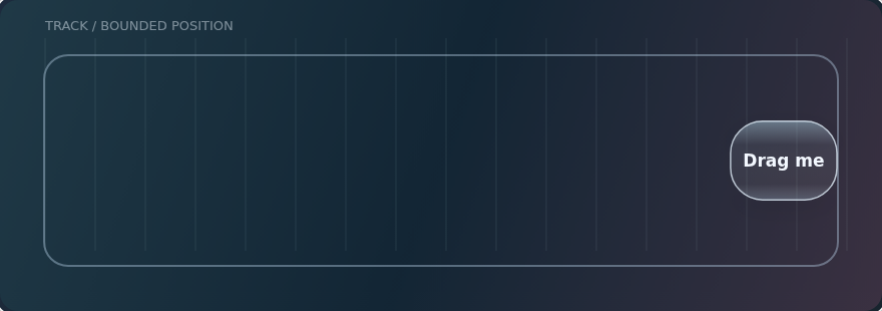
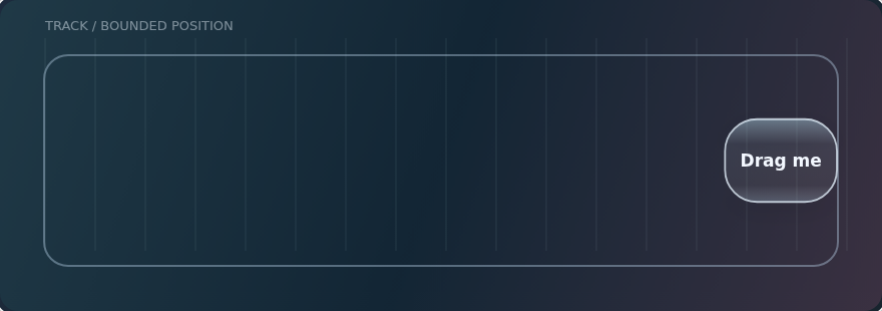
Refresh the glass specification and v0.21.0 app previews
Document the implemented motion/material contracts, update the interactive
lab and illustrations, and retain device profiling and selection entrance
motion as explicit review work. Replace README previews with the candidate
and prepare release notes covering all resolved issues.

Refs #110, #111, #112, #113, #114, #115, #116, #117, #118, #119

Changed region(s): [[0.7959, 0.3762, 0.949, 0.5788], [0.8265, 0.5788, 0.949, 0.6656]]

diff --git a/docs/lab.html b/docs/lab.html
@@ -12,16 +12,16 @@
 <p id="instructions"><small>Drag the lens, or focus the illustration and use Left/Right. Home/End move to a boundary. Buttons below provide the same actions. Keyboard steps settle with the same spring.</small></p>
 <div class="controls"><button id="left">Move left</button><button id="right">Move right</button><button id="menu" aria-pressed="false">Expand surface</button><button id="reset">Reset</button></div>
 <p><output id="readout" aria-live="off"></output></p>
-<div class="controls"><label>Shape damping <input id="damping" type="range" min="12" max="45" value="24"><output id="dampingValue">24</output></label><label><input id="reduce" type="checkbox"> Reduce motion</label></div>
+<div class="controls"><label>Shape damping <input id="damping" type="range" min="2" max="40" value="8"><output id="dampingValue">8</output></label><label>Resting depth <input id="depth" type="range" min="0.6" max="2" step="0.05" value="1.35"><output id="depthValue">1.35</output></label><label><input id="reduce" type="checkbox"> Reduce motion</label></div>
 </section>
-<details><summary>What this demonstrates</summary><p>A bounded center uses a critically damped spring after release. A second spring responds to velocity changes and edge pressure. Opposing exponential scales preserve projected area. Expansion changes the target geometry without queuing a separate flourish. This is a small Localica proposal, not Apple's code, a fluid-volume simulation, or a production glass shader. The drawing intentionally uses simple gradients so you can focus on behavior.</p><p>Read the <a href="specification.md#shape-carries-impact">model and its limitations</a> and the <a href="sources.md#interaction-foundations">Apple interaction evidence</a>. The current Android release is unchanged by this prototype.</p></details>
+<details><summary>What this demonstrates</summary><p>A bounded center uses a critically damped spring after release. A second spring responds to velocity changes and edge pressure. Coupled footprint and thickness scales preserve approximate cap volume. The contacting edge stays pinned during compression. Expansion changes the target geometry without queuing a separate flourish. This is a small Localica proposal, not Apple's code, a fluid-volume simulation, or a production glass shader. The drawing intentionally uses simple gradients so you can focus on behavior.</p><p>Read the <a href="specification.md#shape-carries-impact">model and its limitations</a> and the <a href="sources.md#interaction-foundations">Apple interaction evidence</a>. The current Android release is unchanged by this prototype.</p></details>
 <footer>Original illustration · no Apple imagery or font files · no dependencies or network requests</footer>
 <script>
 'use strict';
 const canvas=document.querySelector('#scene'),ctx=canvas.getContext('2d');
 const reduce=document.querySelector('#reduce');reduce.checked=matchMedia('(prefers-reduced-motion: reduce)').matches;
 const damping=document.querySelector('#damping'),readout=document.querySelector('#readout');
-let x=250,v=0,target=x,strain=0,sv=0,previousV=0,pressure=0,drag=null,expanded=false,w=126,h=66,wv=0,hv=0,last=0,frame=0;
+let x=250,v=0,target=x,strain=0,sv=0,depth=0,dv=0,previousV=0,pressure=0,drag=null,expanded=false,w=126,h=66,wv=0,hv=0,last=0,frame=0;
 const clamp=(a,lo,hi)=>Math.max(lo,Math.min(hi,a));
 function limits(){return [45+w/2,835-w/2]}
 function wake(){if(!frame){last=performance.now();frame=requestAnimationFrame(tick)}}
@@ -33,23 +33,24 @@ function draw(){
  ctx.strokeStyle='#cce7f51a';ctx.lineWidth=1;for(let i=45;i<850;i+=50){ctx.beginPath();ctx.moveTo(i,38);ctx.lineTo(i,250);ctx.stroke()}
  ctx.fillStyle='#edf6ff7a';ctx.font='13px system-ui';ctx.fillText('TRACK / BOUNDED POSITION',45,30);
  ctx.strokeStyle='#bdd8ed66';ctx.lineWidth=2;ctx.beginPath();ctx.roundRect(44,55,792,210,24);ctx.stroke();
- const q=reduce.checked?0:strain,sx=Math.exp(q),sy=Math.exp(-q),sw=w*sx,sh=h*sy;
+ const q=reduce.checked?0:strain,z=reduce.checked?0:.24*Math.tanh(depth/.24),sx=Math.exp(q-z/2),sy=Math.exp(-q-z/2),sz=Math.exp(z),sw=w*sx,sh=h*sy;
  // Keep the outer silhouette inside the track while it bulges.
  const [leftLimit,rightLimit]=limits();
  const cx=x>=rightLimit-.01?835-sw/2:x<=leftLimit+.01?45+sw/2:clamp(x,45+sw/2,835-sw/2),cy=160;
  ctx.save();ctx.translate(cx,cy);ctx.shadowColor='#00000055';ctx.shadowBlur=24;ctx.shadowOffsetY=8;
- const g=ctx.createLinearGradient(0,-sh/2,0,sh/2);g.addColorStop(0,'#c5eeff66');g.addColorStop(.3,'#daecff18');g.addColorStop(.8,'#ffffff12');g.addColorStop(1,'#cce8ff40');ctx.fillStyle=g;ctx.beginPath();ctx.roundRect(-sw/2,-sh/2,sw,sh,Math.min(32,sh/2));ctx.fill();ctx.shadowColor='transparent';ctx.strokeStyle='#e7f5ffc0';ctx.lineWidth=1.5;ctx.stroke();
+ const g=ctx.createLinearGradient(0,-sh/2,0,sh/2);g.addColorStop(0,'#c5eeff66');g.addColorStop(.3,'#daecff18');g.addColorStop(.8,'#ffffff12');g.addColorStop(1,'#cce8ff40');ctx.fillStyle=g;ctx.beginPath();ctx.roundRect(-sw/2,-sh/2,sw,sh,Math.min(32,sh/2));ctx.fill();ctx.shadowColor='transparent';ctx.strokeStyle='#e7f5ffc0';ctx.lineWidth=1.5*sz*Number(document.querySelector('#depth').value);ctx.stroke();
  ctx.fillStyle='#f3f8ff';ctx.textAlign='center';ctx.font='600 17px system-ui';ctx.fillText(expanded?'One continuing surface':'Drag me',0,expanded?-18:6);
  if(expanded){ctx.font='14px system-ui';ctx.fillStyle='#dce7f0';ctx.fillText('Same position, velocity and identity',0,17);ctx.fillText('Re-grab while settling',0,44)}ctx.restore();
  const [lo,hi]=limits();const pct=Math.round((x-lo)/(hi-lo)*100);canvas.setAttribute('aria-valuenow',String(clamp(pct,0,100)));
- readout.value=`velocity ${v.toFixed(0)} px/s · strain ${strain.toFixed(3)} · area ratio ${(sx*sy).toFixed(3)}${drag?' · tracking':' · settling / rest'}`;
+ readout.value=`velocity ${v.toFixed(0)} px/s · strain ${strain.toFixed(3)} · depth ${sz.toFixed(3)} · volume ratio ${(sx*sy*sz).toFixed(3)}${drag?' · tracking':' · settling / rest'}`;
 }
 function tick(now){frame=0;let dt=Math.min((now-last)/1000,.04);last=now;const tw=expanded?370:126,th=expanded?160:66;
- if(reduce.checked){w=tw;h=th;wv=hv=strain=sv=0;if(!drag){x=target;v=0}}
+ if(reduce.checked){w=tw;h=th;wv=hv=strain=sv=depth=dv=0;if(!drag){x=target;v=0}}
  else{while(dt>0){const d=Math.min(dt,1/240);wv+=(420*(tw-w)-41*wv)*d;hv+=(420*(th-h)-41*hv)*d;w+=wv*d;h+=hv*d;
  const [lo,hi]=limits();target=clamp(target,lo,hi);if(!drag){v+=(420*(target-x)-41*v)*d;x+=v*d}x=clamp(x,lo,hi);
- sv+=clamp((v-previousV)/600*.11,-.7,.7);previousV=v;sv+=(380*(pressure-strain)-Number(damping.value)*sv)*d;strain=clamp(strain+sv*d,-.24,.12);dt-=d}}
- draw();if(drag||Math.abs(x-target)>.03||Math.abs(v)>.03||Math.abs(w-tw)>.03||Math.abs(h-th)>.03||Math.abs(strain-pressure)>.0002||Math.abs(sv)>.002)wake();
+ sv+=clamp((v-previousV)/600*.11,-.7,.7);previousV=v;sv+=(380*(pressure-strain)-Number(damping.value)*sv)*d;strain=clamp(strain+sv*d,-.24,.12);
+ const depthTarget=(drag?-.14:0)+Math.abs(pressure)*.18;dv+=(380*(depthTarget-depth)-Number(damping.value)*dv)*d;depth+=dv*d;dt-=d}}
+ draw();if(drag||Math.abs(x-target)>.03||Math.abs(v)>.03||Math.abs(w-tw)>.03||Math.abs(h-th)>.03||Math.abs(strain-pressure)>.0002||Math.abs(sv)>.002||Math.abs(depth)>.0002||Math.abs(dv)>.002)wake();
 }
 canvas.addEventListener('pointerdown',e=>{const p=point(e);if(Math.abs(p.x-x)>w/2+16||Math.abs(p.y-160)>h/2+16)return;canvas.setPointerCapture(e.pointerId);canvas.focus();drag={offset:p.x-x,last:p.x,time:e.timeStamp};v=0;wake()});
 canvas.addEventListener('pointermove',e=>{if(!drag)return;const p=point(e),[lo,hi]=limits(),raw=p.x-drag.offset;const nx=clamp(raw,lo,hi);v=clamp((nx-x)/Math.max(.008,(e.timeStamp-drag.time)/1000),-1800,1800);x=nx;target=x;pressure=-.22*(1-Math.exp(-Math.abs(raw-nx)/85));drag.time=e.timeStamp;wake()});
@@ -59,5 +60,6 @@ canvas.addEventListener('keydown',e=>{const [lo,hi]=limits();const next={ArrowLe
 document.querySelector('#left').onclick=()=>setTarget(limits()[0]);document.querySelector('#right').onclick=()=>setTarget(limits()[1]);
 document.querySelector('#menu').onclick=e=>{expanded=!expanded;e.target.setAttribute('aria-pressed',String(expanded));e.target.textContent=expanded?'Collapse surface':'Expand surface';wake()};
 document.querySelector('#reset').onclick=()=>{expanded=false;target=250;v=0;pressure=0;document.querySelector('#menu').textContent='Expand surface';document.querySelector('#menu').setAttribute('aria-pressed','false');wake()};
+document.querySelector('#depth').oninput=e=>{document.querySelector('#depthValue').value=e.target.value;wake()};
 damping.oninput=()=>{document.querySelector('#dampingValue').value=damping.value;wake()};reduce.onchange=()=>wake();draw();
 </script></html>

diff --git a/docs/specification.md b/docs/specification.md
@@ -2,13 +2,13 @@
 
 [Guide home](README.md) · [Apple evidence](sources.md) · [Motion lab](lab.html)
 
-**Status: proposed design target, not a description of shipped behavior.** The [interface contract](../interface.md) owns the current app. The source consolidation following v0.20.2 must preserve that release's behavior; applying this specification is a separate future design change. Selection entrance motion remains deferred in [#107](https://github.com/anastaci1a/localica/issues/107).
+**Status: implementation specification.** The [interface contract](../interface.md) owns released behavior; the checks below remain verification criteria, not a claim that every device meets them. Selection entrance motion remains deferred in [#107](https://github.com/anastaci1a/localica/issues/107).
 
-This is our translation of the [Apple evidence](sources.md) into testable Android behavior. The equations below are proposed engineering models, not Apple's private formulas. They need device profiling and perceptual tuning.
+This is our translation of the [Apple evidence](sources.md) into testable Android behavior. The equations below are Localica engineering models, not Apple's private formulas. They need device profiling and perceptual tuning.
 
 ## Surface roles
 
-| Role | Proposed treatment | Localica examples |
+| Role | Treatment | Localica examples |
 | --- | --- | --- |
 | Content | Artwork, text and ordinary backgrounds; no permanent lens over every item | Songs, album cards, collection heroes |
 | Floating control | One adaptive refracting surface with sharp foreground content | Mini-player, navigation, filter/search pills, return buttons |
@@ -16,7 +16,7 @@ This is our translation of the [Apple evidence](sources.md) into testable Androi
 | Transient selection | Explicit exception to the usual content/control separation | User-requested lenses over selected media |
 | Nested control | Prefer a light overlay inside the parent's material, with one coherent backdrop | Sort choices, menu actions |
 
-Apple's preference against layered glass conflicts with some requested Localica treatments. Preserve the existing selection lenses, frosted dialogs and bubble actions during consolidation. A future review should compare those with a single-material alternative; do not silently replace them because a guideline differs. Likewise, keep configurable overflow tabs and detail-page tab hiding.
+Apple's preference against layered glass conflicts with some requested Localica treatments. Preserve the requested selection lenses, frosted dialogs and bubble actions; ordinary song overflow and queue-row rename/delete remain plain icons. A future review should compare those with a single-material alternative; do not silently replace them because a guideline differs. Likewise, keep configurable overflow tabs and detail-page tab hiding.
 
 Treat blur, refraction, illumination, contrast support and shadow as separate parameters. An element may be clear yet need strong edge curvature; a text-heavy panel may need scattering without a heavy border. The current glass sliders remain user controls, not claims that every combination is equally legible.
 
@@ -57,17 +57,18 @@ Advance with a stable integrator and bounded substeps, or an analytic solution. 
 
 ### Shape carries impact
 
-Use a separate damped strain state driven by changes in travel velocity and held edge pressure. For an initial cheap model:
+Use a separate damped strain state driven by changes in travel velocity and held edge pressure. The inexpensive cap approximation includes a separate logarithmic thickness state:
 
 ```text
 pressure(excess) = -limit * (1 - exp(-abs(excess) / distanceScale))
-scaleAlong      = exp(strain)
-scaleAcross     = exp(-strain)
+scaleAlong      = exp(strain - depthStrain / 2)
+scaleAcross     = exp(-strain - depthStrain / 2)
+scaleDepth      = exp(depthStrain)
 ```
 
-The two scales multiply to one: **projected area is preserved**, not perimeter or three-dimensional volume. A genuine volume-conserving cap model would also need thickness, surface normals and optical path length; that is an experiment, not an assertion about Apple or our current solver.
+The three scales multiply to one: **approximate volume is preserved** while the footprint and thickness change together. Contact flattens and widens the cap; release can make it taller and narrower. Thickness also changes the rounded optical profile. This is not a fluid simulation or a reconstruction of Apple’s private renderer. Shape damping is independent of constrained travel; [Glass settings](../interface.md#appearance-and-settings) own its defaults/range and resting optical depth. Motion clocks sleep after settling.
 
-Map strain to the motion axis. A horizontal stop compresses width and expands height; a vertical one does the reverse. Keep the constrained edge pinned while deforming inward so the apparent contact does not slide through the wall. Additional pull produces diminishing compression. Release removes pressure and lets the same body settle. Reversal during settling changes its response immediately.
+Map strain to the motion axis. A horizontal stop compresses width and expands height; a vertical one does the reverse. Keep the contacting edge pinned (not the center) while deforming inward so the apparent contact does not slide through the wall. Additional pull produces diminishing compression. Release removes pressure and lets the same body settle. Reversal during settling changes its response immediately.
 
 Acceptance: a slow drag, fast flick, abrupt reversal and long boundary hold must yield distinguishable shapes. Replaying the same wiggle on all four fails the model. Reduced Motion removes decorative strain while preserving immediate tracking and state feedback.
 
@@ -86,9 +87,9 @@ content/backdrop → padded sample → distortion/scattering → contrast suppor
 outline + elevation → one shadow field behind the surface group
 ```
 
-Neighboring glass should share a coherent source without recursively sampling its own output. Sampling a larger region prevents clamped edge streaks. Merged selection shapes preserve unselected holes; diagonal gallery bridges remain disabled. During a future materialization experiment, vary edge height/refraction continuously from flat to curved. The current release intentionally skips that entrance animation.
+Neighboring glass should share a coherent source without recursively sampling its own output. Sampling a larger region prevents clamped edge streaks. Merged selection shapes preserve unselected holes; diagonal gallery bridges remain disabled. During a future materialization experiment, vary edge height/refraction continuously from flat to curved. Selections intentionally skip that entrance animation until #107 is reviewed.
 
-Contrast adaptation needs to assess what lies beneath the **glyph area**, not merely the album's average color. Test a white icon over alternating white/black text, a checkerboard and bright moving artwork. Proposed safeguards:
+Contrast adaptation needs to assess what lies beneath the **glyph area**, not merely the album's average color. Test a white icon over alternating white/black text, a checkerboard and bright moving artwork. Safeguards to verify:
 
 1. Choose foreground polarity and supporting tint together.
 2. Add hysteresis and a short response filter so a scrolling edge does not flicker between black and white.

diff --git a/docs/README.md b/docs/README.md
@@ -12,12 +12,12 @@
 | --- | --- |
 | Understand the feeling we are aiming for | [Fluid interaction foundations](sources.md#interaction-foundations) |
 | Check what Apple actually says | [Evidence atlas with video timestamps](sources.md) |
-| See our proposed implementation rules | [Localica specification](specification.md) |
+| See our implementation rules | [Localica specification](specification.md) |
 | Drag, reverse and press against an edge | [Motion lab](lab.html) — download/open locally; GitHub shows its source |
 | Review motion without running anything | Expand the demonstrations below |
 | Check what the app currently promises | [Current interface contract](../interface.md) |
 
-The guide separates **Apple evidence**, **Localica proposals**, and **shipped behavior**. It is a research reference, not a claim of pixel-identical iOS rendering. The behavior-preserving source refactor does not implement its redesign proposals.
+The guide separates **Apple evidence**, **Localica models**, and **shipped behavior**. It is a research reference, not a claim of pixel-identical iOS rendering.
 
 ## Motion studies
 
@@ -43,8 +43,8 @@ A persistent identity connects the two sizes. The production design also needs m
 
 ## Read this before using the rules
 
-The specification proposes a coherent future system, including contrast safeguards and reversible optical materialization that are **not all implemented**. Current selection lenses intentionally appear immediately; their entrance motion awaits [#107](https://github.com/anastaci1a/localica/issues/107). Requested glass-on-content and nested controls remain explicit departures from Apple's usual layer guidance.
+The specification defines the shared system and its acceptance checks. Physical-device performance still needs review; optical materialization remains deferred. Current selection lenses intentionally appear immediately; their entrance motion awaits [#107](https://github.com/anastaci1a/localica/issues/107). Requested glass-on-content and nested controls remain explicit departures from Apple's usual layer guidance.
 
-The guide was compiled from primary sources before its illustration/formatting pass. Sources were reviewed on **12 October 2026**. Update the relevant evidence and proposal together when Apple's guidance or our design decisions change; keep release history in Git and Releases. The lab and diagrams are original project assets, with no Apple video frames or font files included.
+The guide was compiled from primary sources before its illustration/formatting pass. Sources were reviewed on **12 October 2026**. Update the relevant evidence and specification together when Apple's guidance or our design decisions change; keep release history in Git and Releases. The lab and diagrams are original project assets, with no Apple video frames or font files included.
 
 [Main repository](../../README.md) · [Evidence atlas](sources.md) · [Acceptance checks](specification.md#acceptance-checks)
